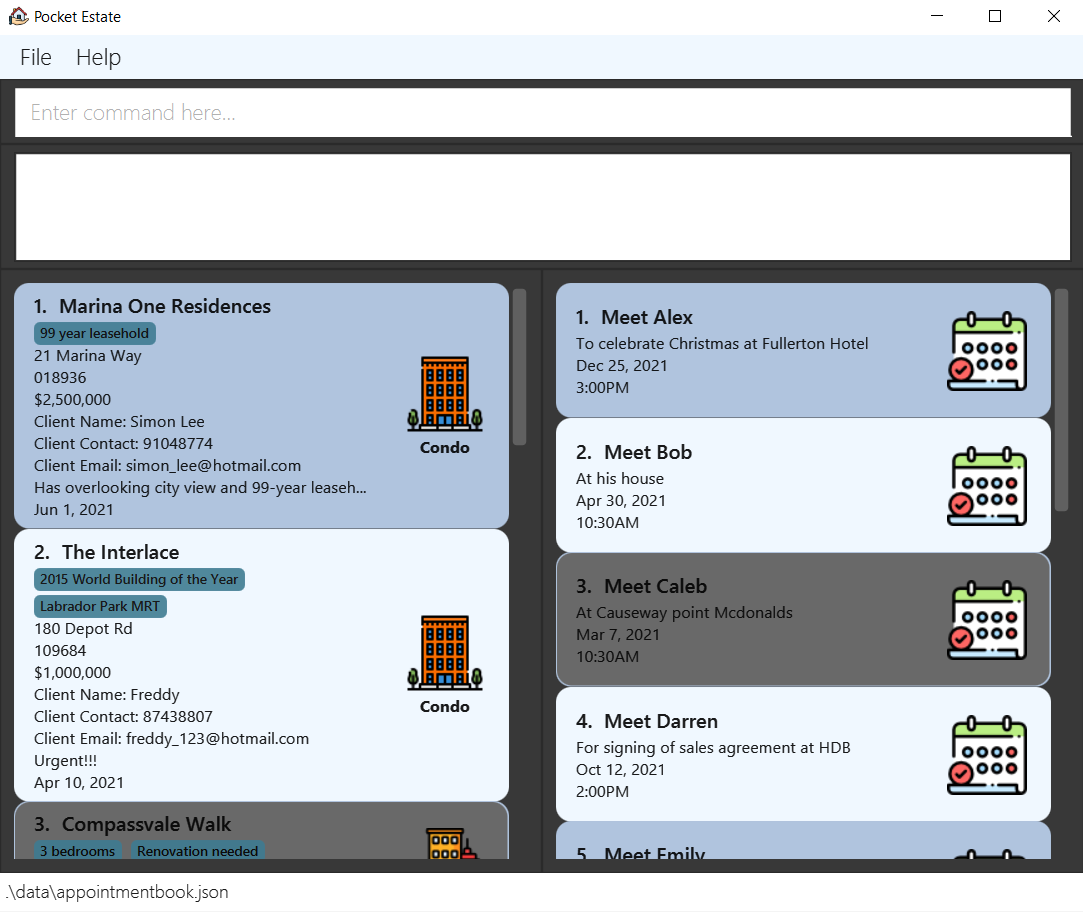
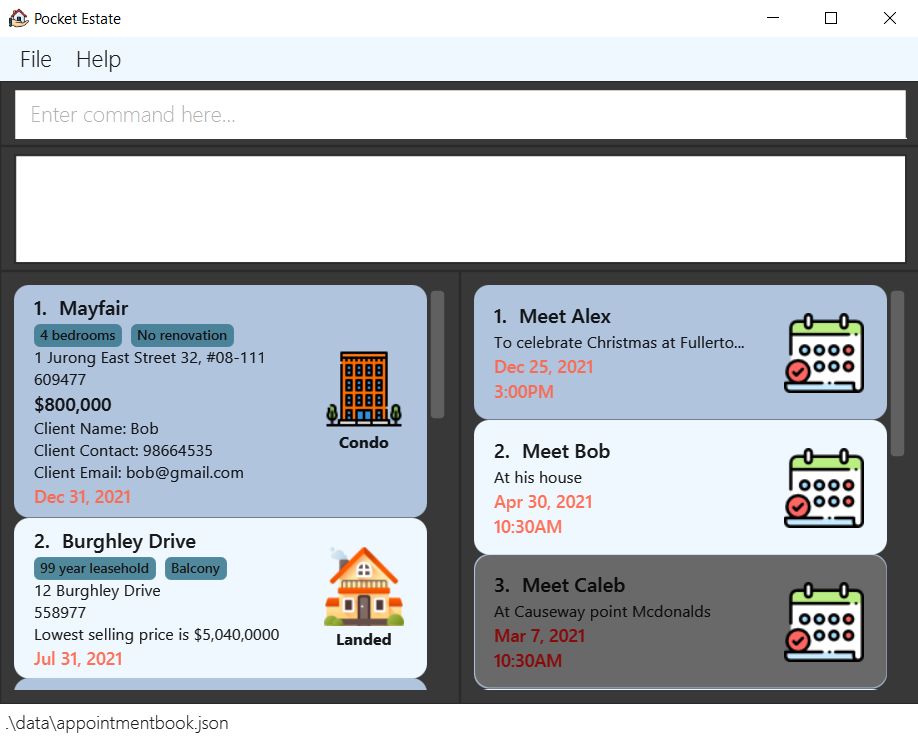
Add emphasis to asking price and datetime labels in GUI
* Update Ui.png

diff --git a/src/main/resources/view/LightTheme.css b/src/main/resources/view/LightTheme.css
@@ -367,3 +367,27 @@
     -fx-font-size: 13px;
     -fx-text-fill: black;
 }
+
+#deadline {
+    -fx-font-family: "Segoe UI Semibold";
+    -fx-font-size: 14px;
+    -fx-text-fill: tomato;
+}
+
+#askingPrice {
+    -fx-font-family: "Segoe UI Semibold";
+    -fx-font-size: 15px;
+    -fx-text-fill: black;
+}
+
+#date {
+    -fx-font-family: "Segoe UI Semibold";
+    -fx-font-size: 14px;
+    -fx-text-fill: tomato;
+}
+
+#time {
+    -fx-font-family: "Segoe UI Semibold";
+    -fx-font-size: 14px;
+    -fx-text-fill: tomato;
+}

diff --git a/src/main/java/seedu/address/ui/AppointmentCard.java b/src/main/java/seedu/address/ui/AppointmentCard.java
@@ -59,14 +59,14 @@ public class AppointmentCard extends UiPart<Region> {
         remarks.setText(appointment.getRemarks().remark);
         date.setText(appointment.getDate().toString());
         time.setText(appointment.getTime().toString());
+
         Date currentDate = new Date(LocalDate.now());
         Time currentTime = new Time(LocalTime.now());
-
-        if (currentDate.compareTo(appointment.getDate()) > 0) {
+        if (currentDate.compareTo(appointment.getDate()) > 0 || (currentDate.compareTo(appointment.getDate()) == 0
+                && currentTime.compareTo(appointment.getTime()) > 0)) {
             cardPane.setStyle("-fx-background-color: #696969");
-        } else if (currentDate.compareTo(appointment.getDate()) == 0
-                && currentTime.compareTo(appointment.getTime()) > 0) {
-            cardPane.setStyle("-fx-background-color: #696969");
+            date.setStyle("-fx-text-fill: darkred");
+            time.setStyle("-fx-text-fill: darkred");
         }
 
         appointmentTypeIcon.setImage(APPOINTMENT_ICON);

diff --git a/src/main/java/seedu/address/ui/PropertyCard.java b/src/main/java/seedu/address/ui/PropertyCard.java
@@ -91,6 +91,7 @@ public class PropertyCard extends UiPart<Region> {
         Deadline currentDate = new Deadline(LocalDate.now());
         if (currentDate.compareTo(property.getDeadline()) > 0) {
             cardPane.setStyle("-fx-background-color: #696969");
+            deadline.setStyle("-fx-text-fill: darkred");
         }
 
         if (property.getRemarks() == null) {
